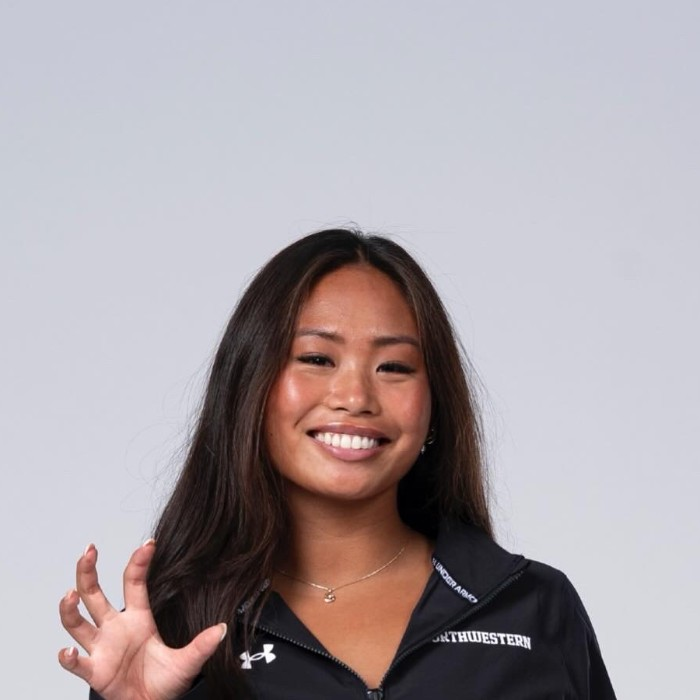
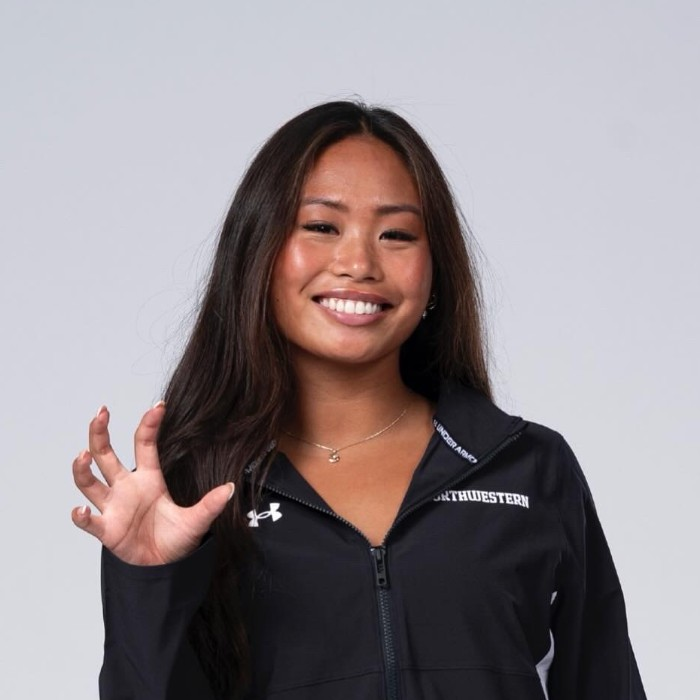
Updates

diff --git a/sw.js b/sw.js
@@ -1,1 +1,1 @@
-if(!self.define){let e,o={};const i=(i,s)=>(i=new URL(i+".js",s).href,o[i]||new Promise(o=>{if("document"in self){const e=document.createElement("script");e.src=i,e.onload=o,document.head.appendChild(e)}else e=i,importScripts(i),o()}).then(()=>{let e=o[i];if(!e)throw new Error(`Module ${i} didn’t register its module`);return e}));self.define=(s,a)=>{const r=e||("document"in self?document.currentScript.src:"")||location.href;if(o[r])return;let c={};const n=e=>i(e,r),d={module:{uri:r},exports:c,require:n};o[r]=Promise.all(s.map(e=>d[e]||n(e))).then(e=>(a(...e),c))}}define(["./workbox-61fbeec5"],function(e){"use strict";self.skipWaiting(),e.clientsClaim(),e.precacheAndRoute([{url:"registerSW.js",revision:"1872c500de691dce40960bb85481de07"},{url:"offline.html",revision:"01189435b3a83e12a41a95fa38b6c3a1"},{url:"index.html",revision:"4a0c5feb773dcb5c4b3e890bf83b4d43"},{url:"photos/zone-select-2026.jpg",revision:"cf7ca45e9e065b5ca2db88e8f7140f4a"},{url:"photos/ymca-nationals-2026.jpg",revision:"526b018f3ba9d6572ddf391a5a7d61be"},{url:"photos/ymca-futures-relay-2026.jpg",revision:"c86c985e8d4ab86871c4c5bbfcf55705"},{url:"photos/tyr-pro-series-logo.png",revision:"405cae91baba9dfd89e6225f2393abfe"},{url:"photos/tyr-pro-series-logo.jpg",revision:"d5e97a048a914c8ea780bdec070500bd"},{url:"photos/team-trials.jpg",revision:"60971370285f91a396a9d4b57e0491e6"},{url:"photos/speedo-sectionals-westmont-2026.jpg",revision:"268a2171c570b8ea5a6b44079d4f7789"},{url:"photos/roy-dafinoiu.jpg",revision:"cf55280fa78108ebf9158b0c395292ed"},{url:"photos/richard-hometown-hero.jpg",revision:"1306030a30dfe549bc2e5b1d073522ef"},{url:"photos/richard-action.jpg",revision:"8e1db47dd51336760b8f7646167af5e6"},{url:"photos/matthew-jun-nj-gold-2026.jpg",revision:"cf2d3ada55c82da64e412d778eb3d9e3"},{url:"photos/kate-usa.jpg",revision:"34ffc861f26953e8aa9791caf57dca4c"},{url:"photos/kate-olympic-trials.jpg",revision:"5b78f6bfc2738df7f1acebbc7d38ac5d"},{url:"photos/kate-hurst-womens-roster.jpg",revision:"c1a3e3255d83d1e400ed5e5b5dc180ba"},{url:"photos/kate-hurst-national-team.jpg",revision:"243d61312664c04bff6c792767c93168"},{url:"photos/kate-diving.jpg",revision:"08d4e3895e06ce1de7de6dde4c71f4e2"},{url:"photos/junior-nationals-2026.jpg",revision:"4d9ea11ccbdea0b8df98b5f35462b510"},{url:"photos/joshua-reines-sectionals.jpg",revision:"16bdf9e8fc2a4620814a1aad0a45c6ca"},{url:"photos/joshua-reines-sectionals-old.jpg",revision:"16bdf9e8fc2a4620814a1aad0a45c6ca"},{url:"photos/jacob-kim-ucsd.jpg",revision:"6cecbb2a5608872931c985f972d94d83"},{url:"photos/harrison-lee-sectionals.jpg",revision:"0bc0862ad327515dd4ef0087df7bc6a0"},{url:"photos/ethan-reines-state-record.jpg",revision:"d693d3f24ac8af08ea6497230f657948"},{url:"photos/ethan-800-record.jpg",revision:"69f5fd48196f821cf11defc11388a583"},{url:"photos/eric-lee.jpg",revision:"3da6a8c2e5c91c2262fe56785d562ba6"},{url:"photos/eric-lee-ot.jpg",revision:"67bf45fd88a980c9f56ca93e3c718904"},{url:"photos/chloe-pool.jpg",revision:"a1882e1fc05d506bbb8d025db2232161"},{url:"photos/chloe-kim-v3.jpg",revision:"dcf594615bd227a7fe397ded1e50af56"},{url:"photos/chase-cut-poster.jpg",revision:"d88c92162805750f08c29c67b126ab20"},{url:"photos/tyr-pro-2026/7.jpg",revision:"40bf08ac1377d0f18f347d838ba8af51"},{url:"photos/tyr-pro-2026/6.jpg",revision:"24236a76e500d7dc69c06feb993a48e7"},{url:"photos/tyr-pro-2026/5.jpg",revision:"0016a1e3912a672e5d2db9ab47d06047"},{url:"photos/tyr-pro-2026/4.jpg",revision:"8cb5c6df087b7135f5de6af5daae83c3"},{url:"photos/tyr-pro-2026/3.jpg",revision:"e95c05cd2f5d1fee921a41eb7f00a73e"},{url:"photos/tyr-pro-2026/2.jpg",revision:"c20d4b7be071b0d6bab9bc45c8b4e244"},{url:"photos/tyr-pro-2026/1.jpg",revision:"bbe4c2f75e549112a0e77591c9123e4e"},{url:"logos/williams.png",revision:"3023c8d9b108081576de52bf5918794f"},{url:"logos/ucsd.jpg",revision:"4b9de4ae4eb546423ec19ee9c584ce85"},{url:"logos/tcnj.webp",revision:"79d9f3effc0e804559fe69f06abf3de2"},{url:"logos/rochester.png",revision:"2114c88a7b341856a12ef32f36d5f15b"},{url:"logos/princeton.png",revision:"5f176784a80e1950d7c65fbd97da0ba7"},{url:"logos/nyu.png",revision:"79f26e6f2f3008125664ec5d12a9352a"},{url:"logos/maine.png",revision:"f57a1325589ed8b779988aec865e16bf"},{url:"logos/lehigh.png",revision:"19af44ca725bc3d5449547998dc5c359"},{url:"logos/lafayette.png",revision:"ac14f51a458aaebc839037eac12e36d6"},{url:"logos/holy-cross.png",revision:"d7b1d8068a52b89aa7b32bec3d6a7c75"},{url:"logos/harvard.png",revision:"391f6dcef8ef186b0e017f128d54b624"},{url:"logos/columbia.jpg",revision:"c4f407b3027a18fc33cadfd1317d3383"},{url:"logos/bryant.jpg",revision:"8271fe5e031c679324132717cf29a8c3"},{url:"logos/bowdoin.jpg",revision:"b18fb75d48d96b1fd7046f0bdd2fd6ec"},{url:"logos/boston-university.png",revision:"3fc331b02972467ebd9ee8b38f69b8cd"},{url:"icons/icon-512.svg",revision:"fc4034a95a556ccb119aaad93bd096f6"},{url:"icons/icon-512.png",revision:"c0bc01e0d02f13840ff7a421e8a34280"},{url:"icons/icon-192.svg",revision:"14bf3e6d523a6ea80f79877232294c1e"},{url:"icons/icon-192.png",revision:"50ee7ecd20d238db12c41d8bc6d15d7c"},{url:"icons/icon-1024.png",revision:"93260a3740714dd4e61324dbbca29618"},{url:"athletes/steven-bendoraitis.webp",revision:"e4d712516a3074bb64be90b23aea7c36"},{url:"athletes/richard-poplawski.webp",revision:"ea94f2b0175d29e89f110c6acb965f38"},{url:"athletes/rebekah-jung.webp",revision:"3d33713fddc0b44825dada4817aec479"},{url:"athletes/michael-granin.webp",revision:"8e79e4f22bf1eda05b28c4652e70b82c"},{url:"athletes/matt-bendoraitis.webp",revision:"e8c1651459d3e6b4fa8b4ff43b037a03"},{url:"athletes/kayla-rodriguez.jpg",revision:"3ffcfc90a6c31d27111a4281762a07f9"},{url:"athletes/kathleen-bendoraitis.webp",revision:"7913cb8acfc60c7bf5606afaaaa8bb9d"},{url:"athletes/grace-lee.webp",revision:"994a2d1e3527cb56922c1fac7b0a4d70"},{url:"athletes/eric-lee.webp",revision:"cd13f1b5975ca100fca18425483e5cec"},{url:"athletes/collin-lee.jpg",revision:"f9611369e9e6e82745bd2b8f7c4e18a3"},{url:"athletes/chris-chang.webp",revision:"9842989d9afccea5b6db93de0fa07f63"},{url:"athletes/chloe-kim.webp",revision:"a14d3b2a590f312af203af74bf413fc3"},{url:"assets/index-CxMOlc3N.js",revision:null},{url:"assets/index-CTzjaQtK.css",revision:null},{url:"assets/BusinessCard3D-9SvfZ4rN.js",revision:null},{url:"icons/icon-192.png",revision:"50ee7ecd20d238db12c41d8bc6d15d7c"},{url:"icons/icon-512.png",revision:"c0bc01e0d02f13840ff7a421e8a34280"},{url:"manifest.webmanifest",revision:"39e0ff24dabb2bb3706971de8803ed09"}],{}),e.cleanupOutdatedCaches(),e.registerRoute(/^https:\/\/fonts\.googleapis\.com\/.*/i,new e.CacheFirst({cacheName:"google-fonts-cache",plugins:[new e.ExpirationPlugin({maxEntries:10,maxAgeSeconds:31536e3})]}),"GET"),e.registerRoute(/^https:\/\/images\.squarespace-cdn\.com\/.*/i,new e.CacheFirst({cacheName:"squarespace-img-cache",plugins:[new e.ExpirationPlugin({maxEntries:20,maxAgeSeconds:2592e3})]}),"GET")});
+if(!self.define){let e,o={};const i=(i,a)=>(i=new URL(i+".js",a).href,o[i]||new Promise(o=>{if("document"in self){const e=document.createElement("script");e.src=i,e.onload=o,document.head.appendChild(e)}else e=i,importScripts(i),o()}).then(()=>{let e=o[i];if(!e)throw new Error(`Module ${i} didn’t register its module`);return e}));self.define=(a,s)=>{const r=e||("document"in self?document.currentScript.src:"")||location.href;if(o[r])return;let c={};const n=e=>i(e,r),d={module:{uri:r},exports:c,require:n};o[r]=Promise.all(a.map(e=>d[e]||n(e))).then(e=>(s(...e),c))}}define(["./workbox-61fbeec5"],function(e){"use strict";self.skipWaiting(),e.clientsClaim(),e.precacheAndRoute([{url:"registerSW.js",revision:"1872c500de691dce40960bb85481de07"},{url:"offline.html",revision:"01189435b3a83e12a41a95fa38b6c3a1"},{url:"index.html",revision:"4a0c5feb773dcb5c4b3e890bf83b4d43"},{url:"photos/zone-select-2026.jpg",revision:"cf7ca45e9e065b5ca2db88e8f7140f4a"},{url:"photos/ymca-nationals-2026.jpg",revision:"526b018f3ba9d6572ddf391a5a7d61be"},{url:"photos/ymca-futures-relay-2026.jpg",revision:"c86c985e8d4ab86871c4c5bbfcf55705"},{url:"photos/tyr-pro-series-logo.png",revision:"405cae91baba9dfd89e6225f2393abfe"},{url:"photos/tyr-pro-series-logo.jpg",revision:"d5e97a048a914c8ea780bdec070500bd"},{url:"photos/team-trials.jpg",revision:"60971370285f91a396a9d4b57e0491e6"},{url:"photos/speedo-sectionals-westmont-2026.jpg",revision:"268a2171c570b8ea5a6b44079d4f7789"},{url:"photos/roy-dafinoiu.jpg",revision:"cf55280fa78108ebf9158b0c395292ed"},{url:"photos/richard-hometown-hero.jpg",revision:"1306030a30dfe549bc2e5b1d073522ef"},{url:"photos/richard-action.jpg",revision:"8e1db47dd51336760b8f7646167af5e6"},{url:"photos/matthew-jun-nj-gold-2026.jpg",revision:"cf2d3ada55c82da64e412d778eb3d9e3"},{url:"photos/kate-usa.jpg",revision:"34ffc861f26953e8aa9791caf57dca4c"},{url:"photos/kate-olympic-trials.jpg",revision:"5b78f6bfc2738df7f1acebbc7d38ac5d"},{url:"photos/kate-hurst-womens-roster.jpg",revision:"c1a3e3255d83d1e400ed5e5b5dc180ba"},{url:"photos/kate-hurst-national-team.jpg",revision:"243d61312664c04bff6c792767c93168"},{url:"photos/kate-diving.jpg",revision:"08d4e3895e06ce1de7de6dde4c71f4e2"},{url:"photos/junior-nationals-2026.jpg",revision:"4d9ea11ccbdea0b8df98b5f35462b510"},{url:"photos/joshua-reines-sectionals.jpg",revision:"16bdf9e8fc2a4620814a1aad0a45c6ca"},{url:"photos/joshua-reines-sectionals-old.jpg",revision:"16bdf9e8fc2a4620814a1aad0a45c6ca"},{url:"photos/jacob-kim-ucsd.jpg",revision:"6cecbb2a5608872931c985f972d94d83"},{url:"photos/harrison-lee-sectionals.jpg",revision:"0bc0862ad327515dd4ef0087df7bc6a0"},{url:"photos/ethan-reines-state-record.jpg",revision:"d693d3f24ac8af08ea6497230f657948"},{url:"photos/ethan-800-record.jpg",revision:"69f5fd48196f821cf11defc11388a583"},{url:"photos/eric-lee.jpg",revision:"3da6a8c2e5c91c2262fe56785d562ba6"},{url:"photos/eric-lee-ot.jpg",revision:"67bf45fd88a980c9f56ca93e3c718904"},{url:"photos/chloe-pool.jpg",revision:"a1882e1fc05d506bbb8d025db2232161"},{url:"photos/chloe-kim-v3.jpg",revision:"dcf594615bd227a7fe397ded1e50af56"},{url:"photos/chase-cut-poster.jpg",revision:"d88c92162805750f08c29c67b126ab20"},{url:"photos/tyr-pro-2026/7.jpg",revision:"40bf08ac1377d0f18f347d838ba8af51"},{url:"photos/tyr-pro-2026/6.jpg",revision:"24236a76e500d7dc69c06feb993a48e7"},{url:"photos/tyr-pro-2026/5.jpg",revision:"0016a1e3912a672e5d2db9ab47d06047"},{url:"photos/tyr-pro-2026/4.jpg",revision:"8cb5c6df087b7135f5de6af5daae83c3"},{url:"photos/tyr-pro-2026/3.jpg",revision:"e95c05cd2f5d1fee921a41eb7f00a73e"},{url:"photos/tyr-pro-2026/2.jpg",revision:"c20d4b7be071b0d6bab9bc45c8b4e244"},{url:"photos/tyr-pro-2026/1.jpg",revision:"bbe4c2f75e549112a0e77591c9123e4e"},{url:"logos/williams.png",revision:"3023c8d9b108081576de52bf5918794f"},{url:"logos/ucsd.jpg",revision:"4b9de4ae4eb546423ec19ee9c584ce85"},{url:"logos/tcnj.webp",revision:"79d9f3effc0e804559fe69f06abf3de2"},{url:"logos/rochester.png",revision:"2114c88a7b341856a12ef32f36d5f15b"},{url:"logos/princeton.png",revision:"5f176784a80e1950d7c65fbd97da0ba7"},{url:"logos/nyu.png",revision:"79f26e6f2f3008125664ec5d12a9352a"},{url:"logos/maine.png",revision:"f57a1325589ed8b779988aec865e16bf"},{url:"logos/lehigh.png",revision:"19af44ca725bc3d5449547998dc5c359"},{url:"logos/lafayette.png",revision:"ac14f51a458aaebc839037eac12e36d6"},{url:"logos/holy-cross.png",revision:"d7b1d8068a52b89aa7b32bec3d6a7c75"},{url:"logos/harvard.png",revision:"391f6dcef8ef186b0e017f128d54b624"},{url:"logos/columbia.jpg",revision:"c4f407b3027a18fc33cadfd1317d3383"},{url:"logos/bryant.jpg",revision:"8271fe5e031c679324132717cf29a8c3"},{url:"logos/bowdoin.jpg",revision:"b18fb75d48d96b1fd7046f0bdd2fd6ec"},{url:"logos/boston-university.png",revision:"3fc331b02972467ebd9ee8b38f69b8cd"},{url:"icons/icon-512.svg",revision:"fc4034a95a556ccb119aaad93bd096f6"},{url:"icons/icon-512.png",revision:"c0bc01e0d02f13840ff7a421e8a34280"},{url:"icons/icon-192.svg",revision:"14bf3e6d523a6ea80f79877232294c1e"},{url:"icons/icon-192.png",revision:"50ee7ecd20d238db12c41d8bc6d15d7c"},{url:"icons/icon-1024.png",revision:"93260a3740714dd4e61324dbbca29618"},{url:"athletes/steven-bendoraitis.webp",revision:"e4d712516a3074bb64be90b23aea7c36"},{url:"athletes/richard-poplawski.webp",revision:"ea94f2b0175d29e89f110c6acb965f38"},{url:"athletes/rebekah-jung.webp",revision:"3d33713fddc0b44825dada4817aec479"},{url:"athletes/michael-granin.webp",revision:"8e79e4f22bf1eda05b28c4652e70b82c"},{url:"athletes/matt-bendoraitis.webp",revision:"e8c1651459d3e6b4fa8b4ff43b037a03"},{url:"athletes/kayla-rodriguez.jpg",revision:"07b9790ea23a279c64040cda051aac54"},{url:"athletes/kathleen-bendoraitis.webp",revision:"7913cb8acfc60c7bf5606afaaaa8bb9d"},{url:"athletes/grace-lee.webp",revision:"994a2d1e3527cb56922c1fac7b0a4d70"},{url:"athletes/eric-lee.webp",revision:"cd13f1b5975ca100fca18425483e5cec"},{url:"athletes/collin-lee.jpg",revision:"f9611369e9e6e82745bd2b8f7c4e18a3"},{url:"athletes/chris-chang.webp",revision:"9842989d9afccea5b6db93de0fa07f63"},{url:"athletes/chloe-kim.webp",revision:"a14d3b2a590f312af203af74bf413fc3"},{url:"assets/index-CxMOlc3N.js",revision:null},{url:"assets/index-CTzjaQtK.css",revision:null},{url:"assets/BusinessCard3D-9SvfZ4rN.js",revision:null},{url:"icons/icon-192.png",revision:"50ee7ecd20d238db12c41d8bc6d15d7c"},{url:"icons/icon-512.png",revision:"c0bc01e0d02f13840ff7a421e8a34280"},{url:"manifest.webmanifest",revision:"39e0ff24dabb2bb3706971de8803ed09"}],{}),e.cleanupOutdatedCaches(),e.registerRoute(/^https:\/\/fonts\.googleapis\.com\/.*/i,new e.CacheFirst({cacheName:"google-fonts-cache",plugins:[new e.ExpirationPlugin({maxEntries:10,maxAgeSeconds:31536e3})]}),"GET"),e.registerRoute(/^https:\/\/images\.squarespace-cdn\.com\/.*/i,new e.CacheFirst({cacheName:"squarespace-img-cache",plugins:[new e.ExpirationPlugin({maxEntries:20,maxAgeSeconds:2592e3})]}),"GET")});
